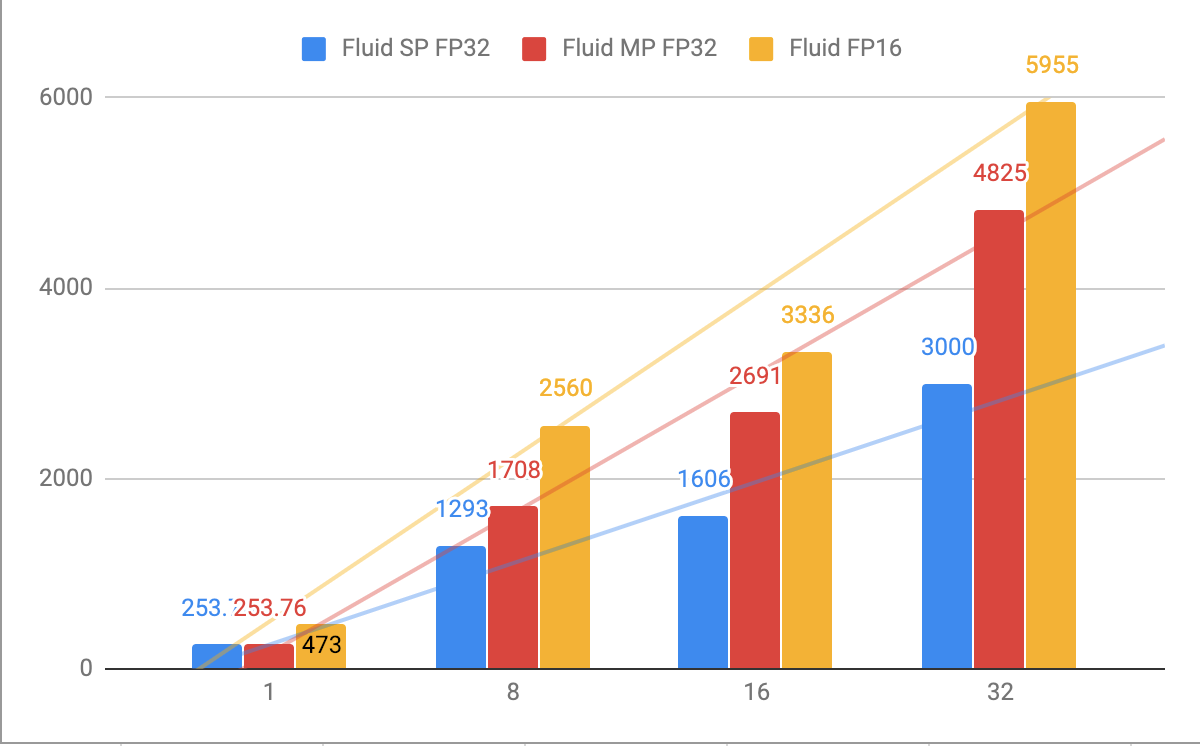
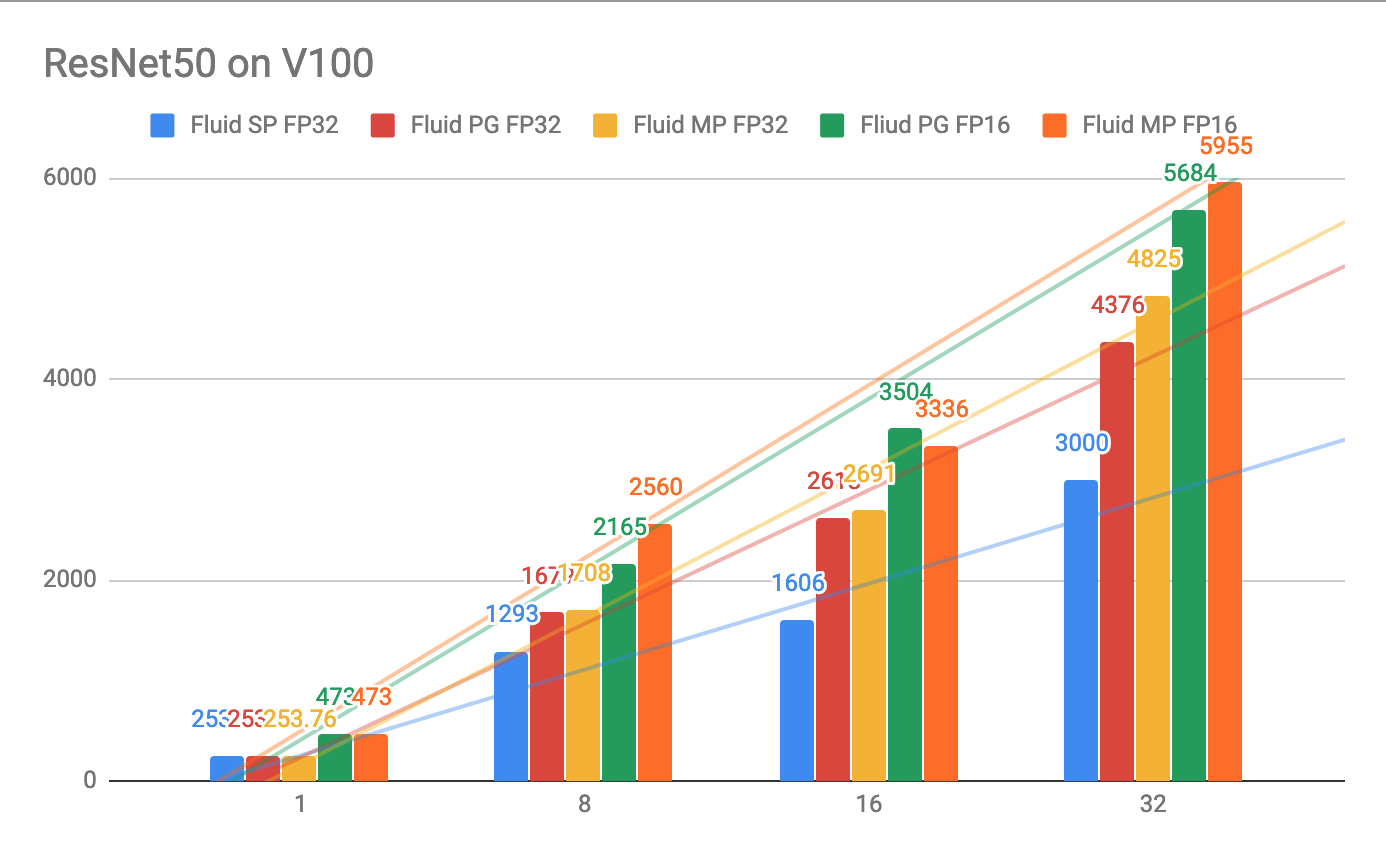
update

diff --git a/fluid/PaddleCV/image_classification/dist_train/README.md b/fluid/PaddleCV/image_classification/dist_train/README.md
@@ -98,5 +98,10 @@ the images/s while the X-axis shows the number of GPUs.
 
 <p align="center">
 <img src="../images/imagenet_dist_performance.png" width=528> <br />
-Performance of Fluid Distributed Training
+Performance of Multiple-GPU Training of Resnet50 on Imagenet
+</p>
+
+<p align="center">
+<img src="../images/imagenet_dist_speedup.png" width=528> <br />
+Speed-ups of Multiple-GPU Training of Resnet50 on Imagenet
 </p>
